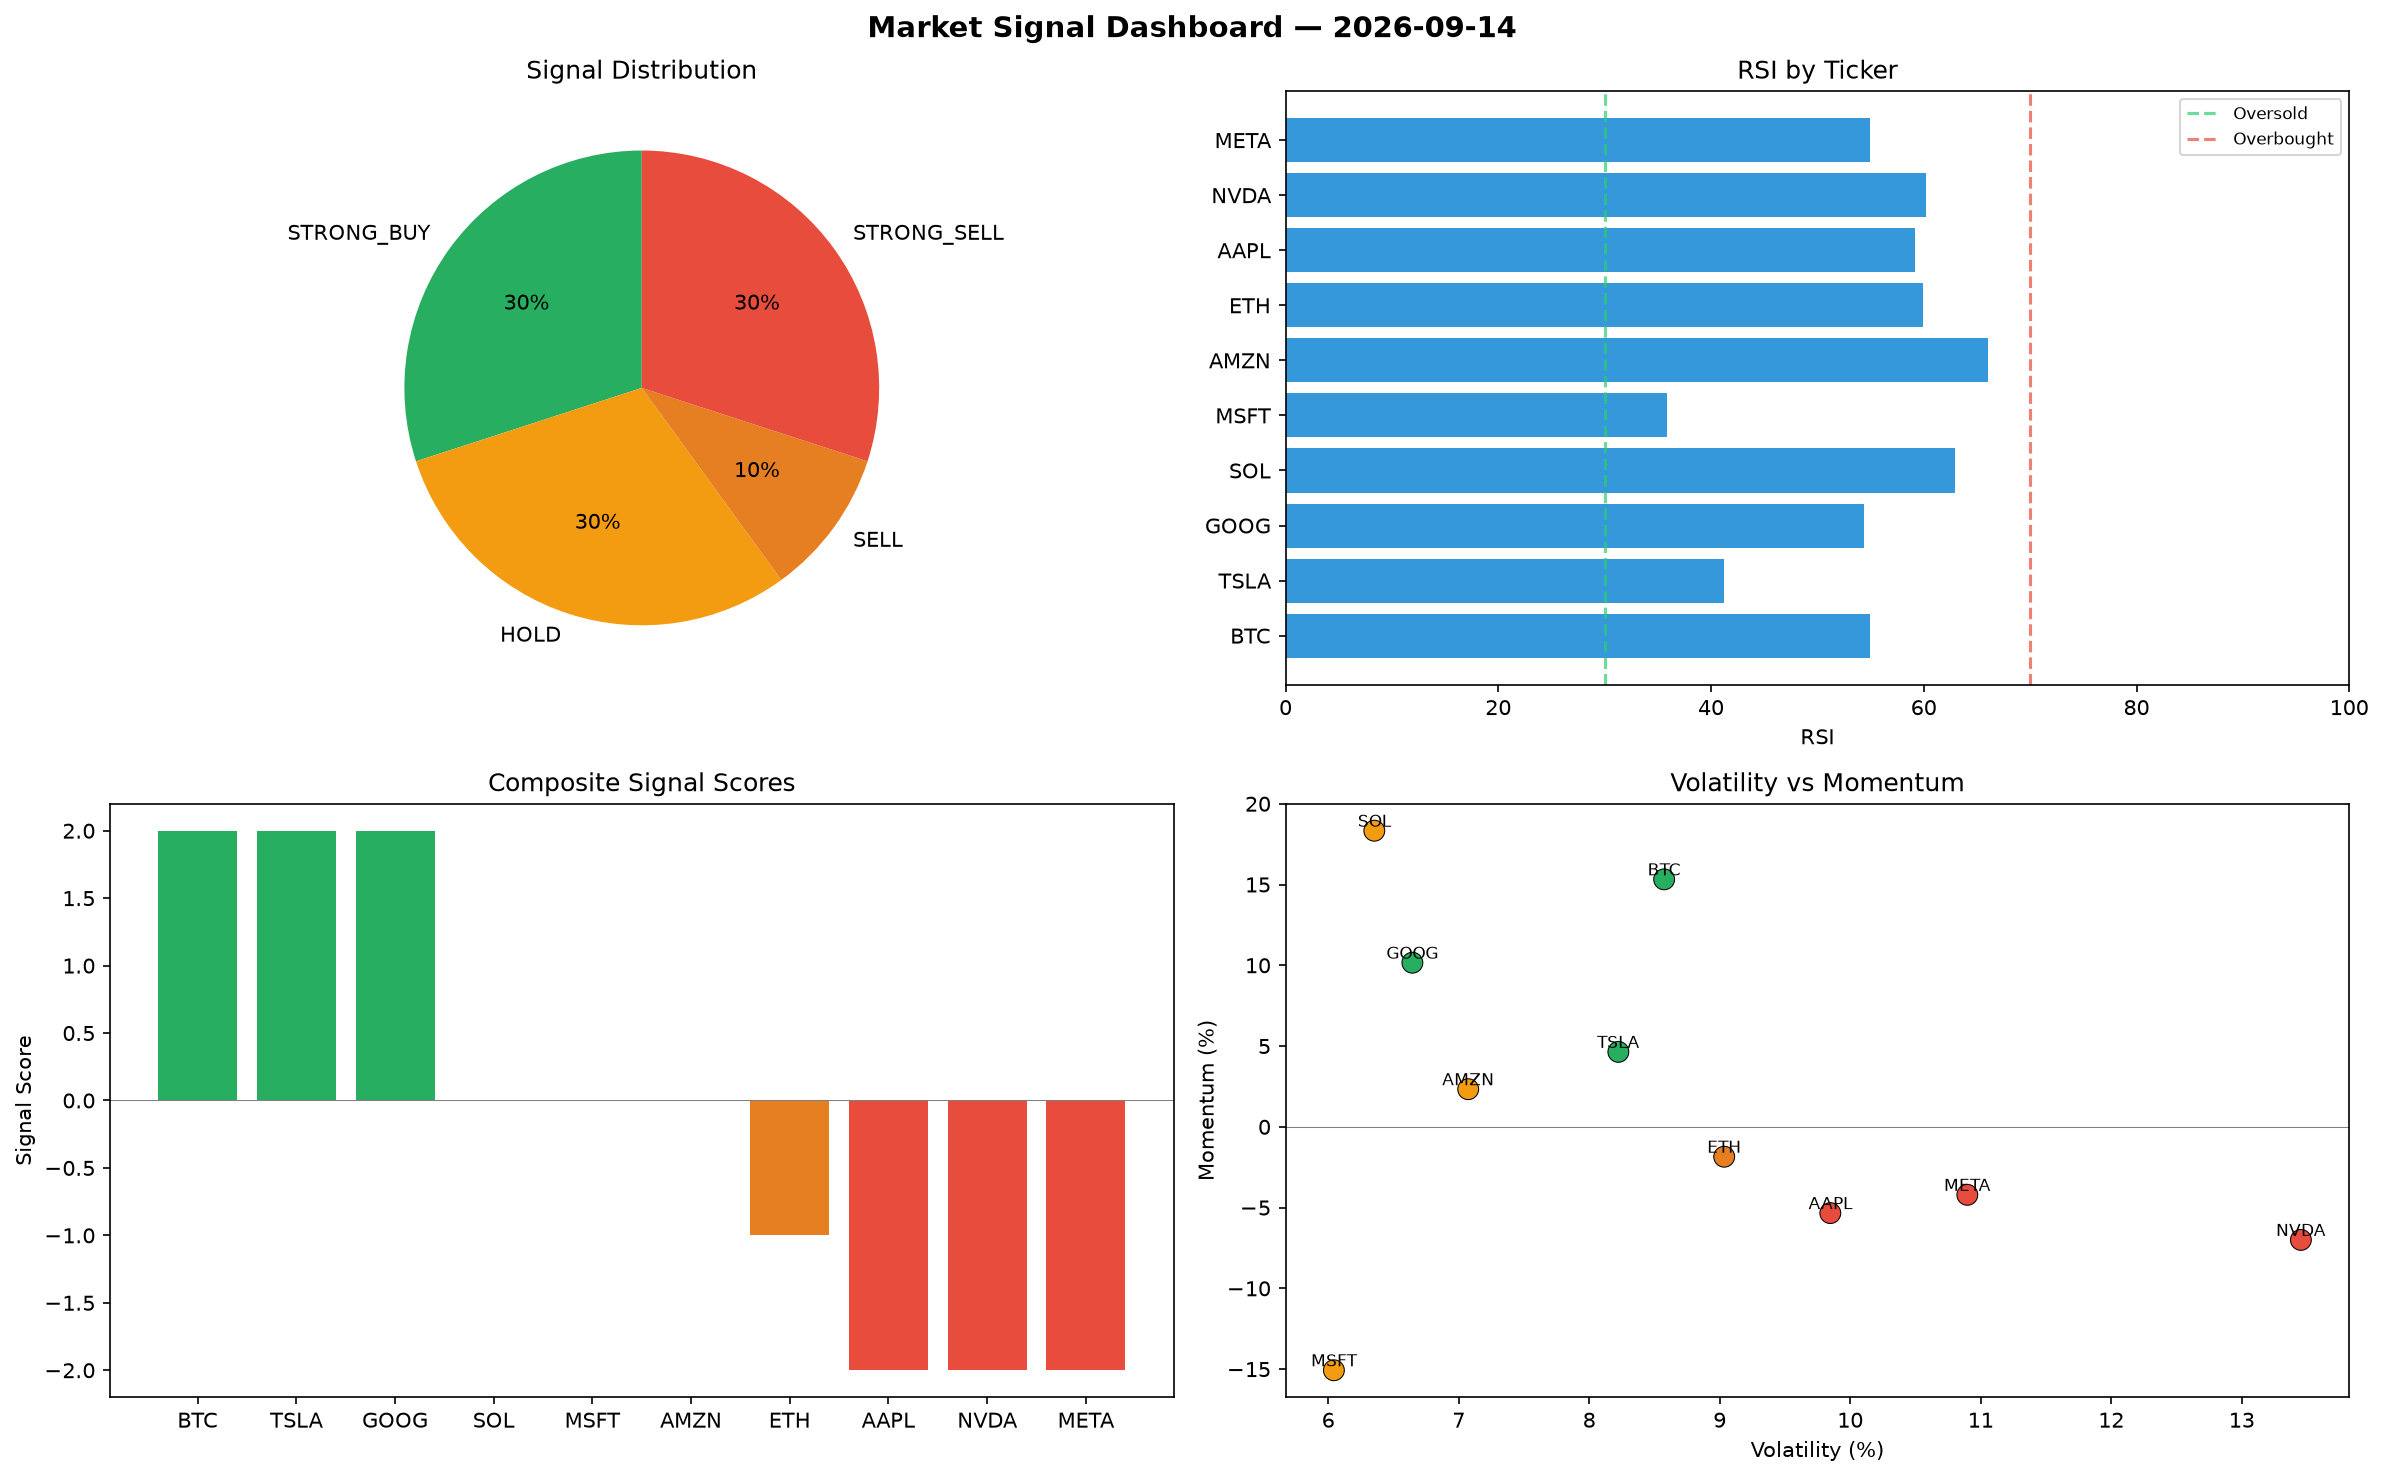
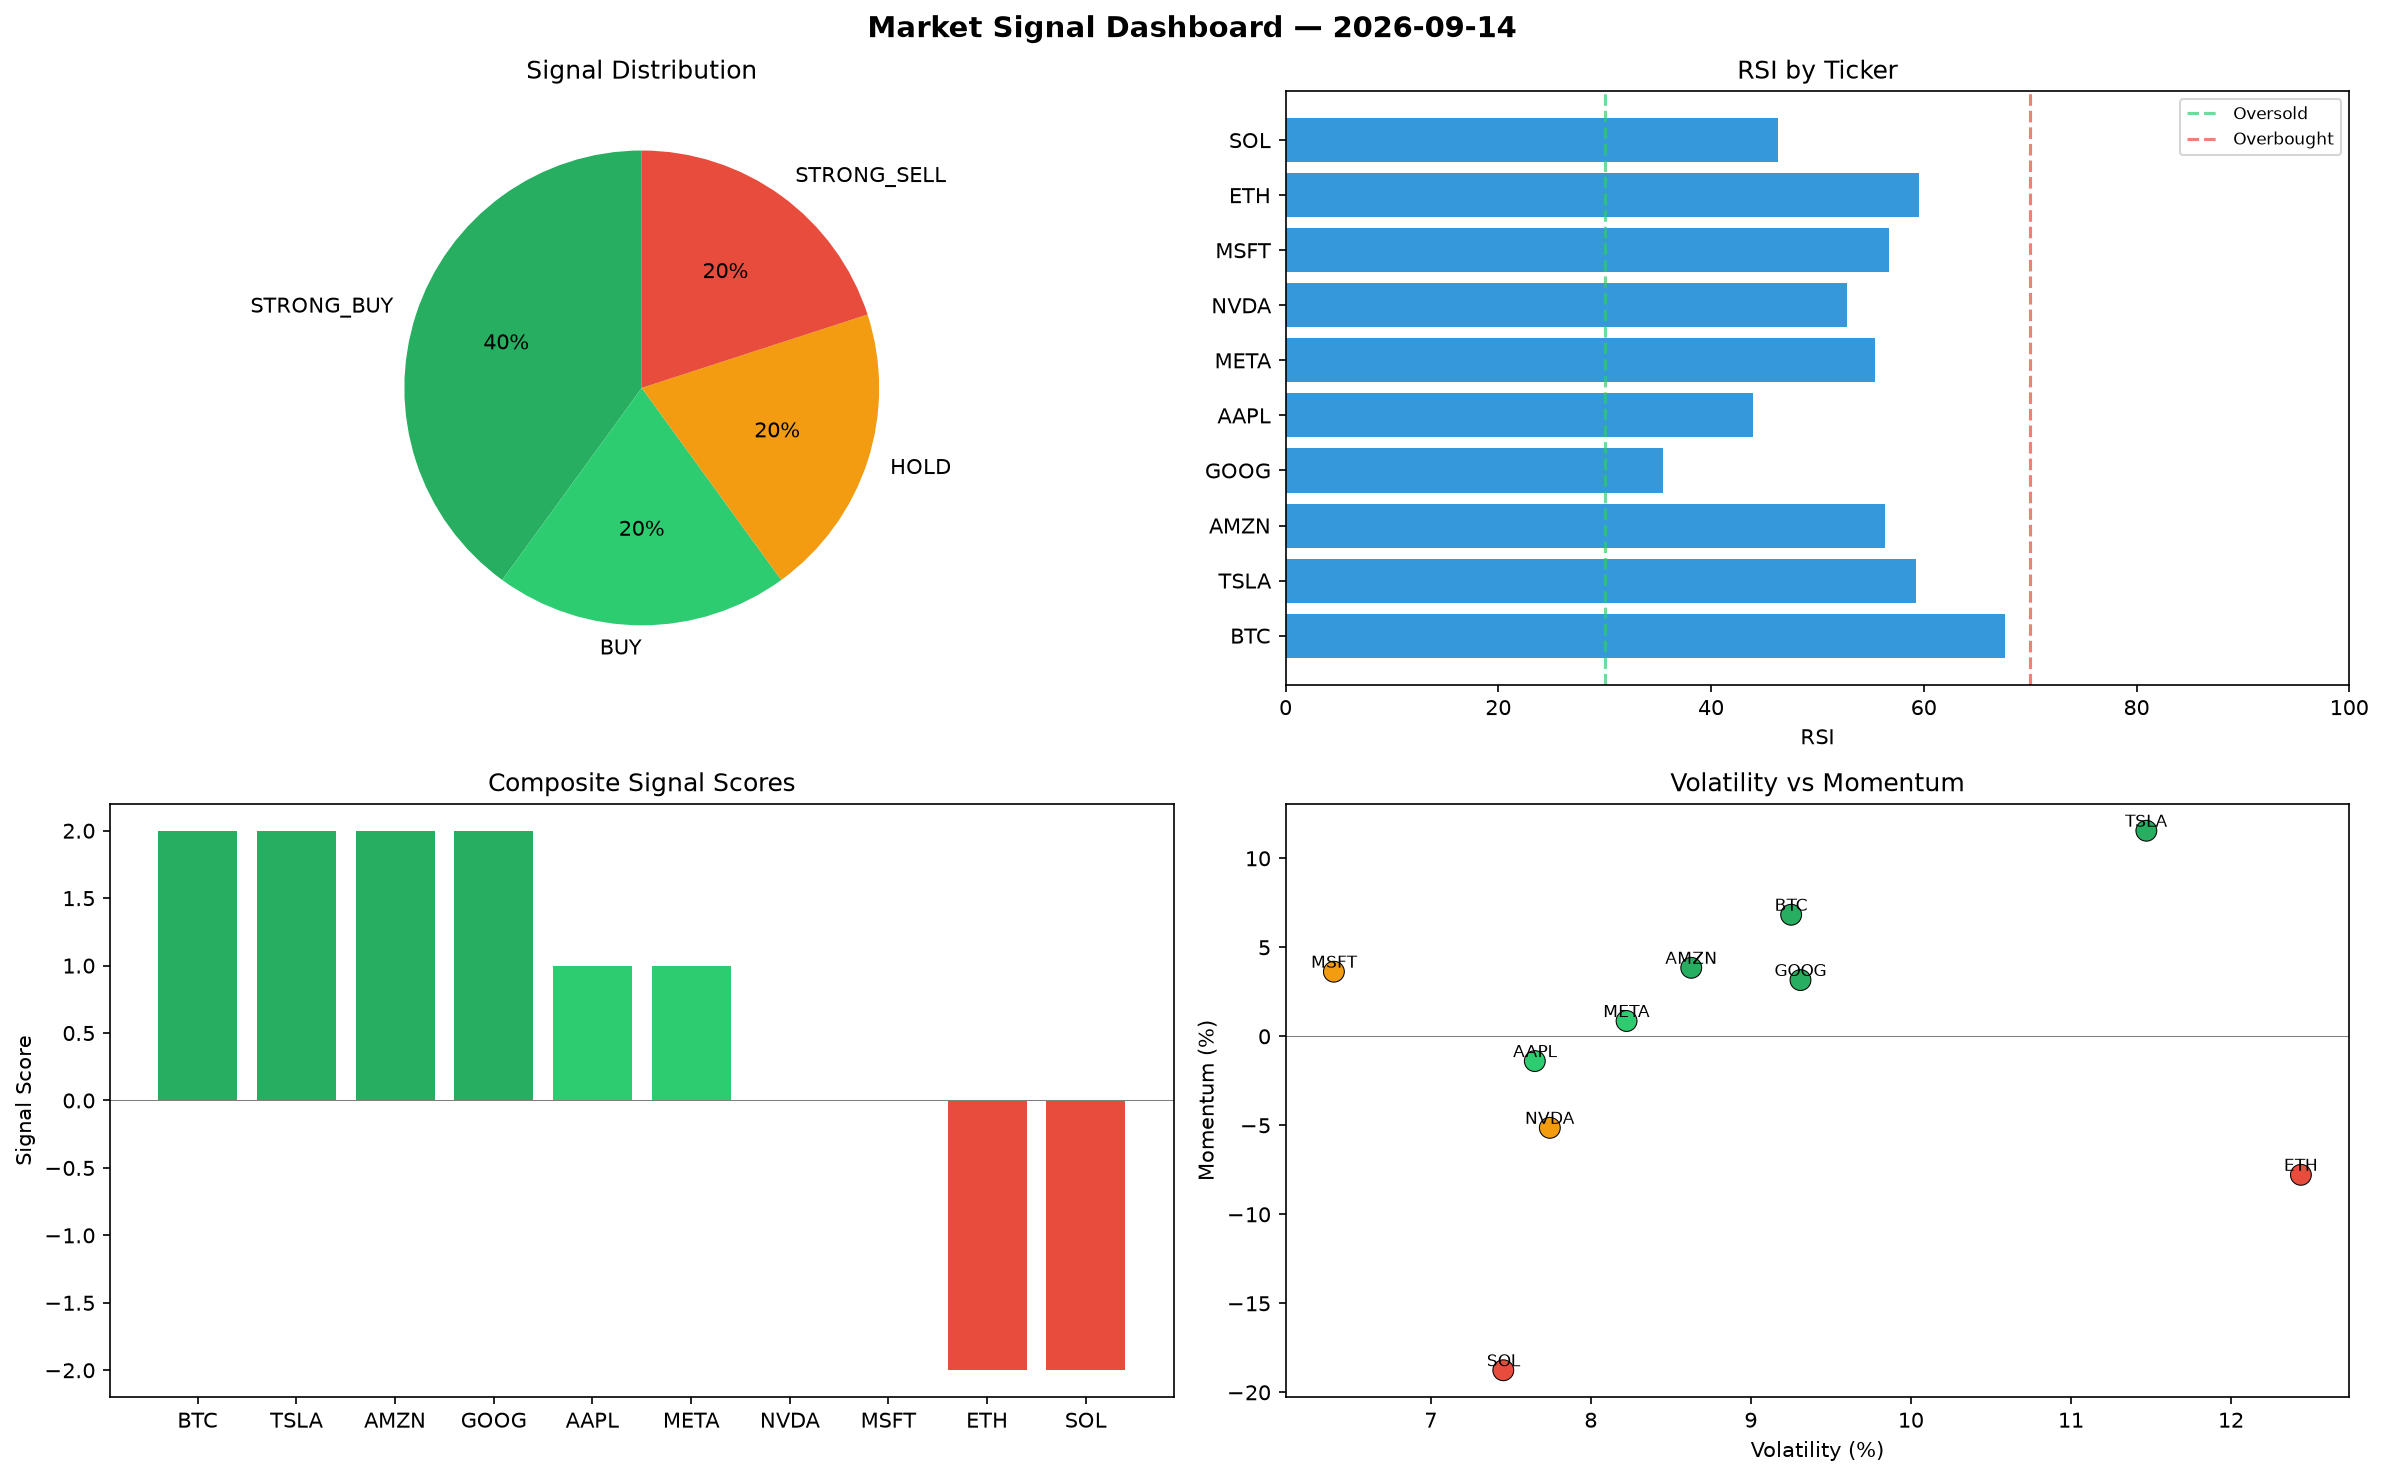
automated-bots: market signals 2026-09-14T15:08

diff --git a/logs/2026-09-14.md b/logs/2026-09-14.md
@@ -1,6 +1,6 @@
 # Market Signal Report — 2026-09-14
 
-**Run ID:** `5d59b2be1d` | **Buy:** 3 | **Sell:** 4 | **Hold:** 3
+**Run ID:** `f21ec5fb1b` | **Buy:** 6 | **Sell:** 2 | **Hold:** 2
 
 ![Dashboard](2026-09-14_dashboard.png)
 
@@ -8,28 +8,28 @@
 
 | Ticker | Price | Signal | Score | RSI | Momentum | Confidence |
 |--------|-------|--------|-------|-----|----------|------------|
-| BTC | $4235.14 | **STRONG_BUY** | 2 | 54.92 | 0.1532 | 0.5 |
-| TSLA | $4507.97 | **STRONG_BUY** | 2 | 41.2 | 0.0464 | 0.5 |
-| GOOG | $3342.93 | **STRONG_BUY** | 2 | 54.41 | 0.1016 | 0.5 |
-| SOL | $1908.82 | **HOLD** | 0 | 62.9 | 0.1833 | 0.0 |
-| MSFT | $4055.41 | **HOLD** | 0 | 35.82 | -0.1507 | 0.0 |
-| AMZN | $4568.13 | **HOLD** | 0 | 66.07 | 0.0233 | 0.0 |
-| ETH | $76.02 | **SELL** | -1 | 59.89 | -0.0185 | 0.25 |
-| AAPL | $3081.47 | **STRONG_SELL** | -2 | 59.17 | -0.0534 | 0.5 |
-| NVDA | $2498.1 | **STRONG_SELL** | -2 | 60.22 | -0.07 | 0.5 |
-| META | $1258.99 | **STRONG_SELL** | -2 | 54.94 | -0.0421 | 0.5 |
+| BTC | $1742.12 | **STRONG_BUY** | 2 | 67.67 | 0.0683 | 0.5 |
+| TSLA | $1788.76 | **STRONG_BUY** | 2 | 59.26 | 0.1155 | 0.5 |
+| AMZN | $921.15 | **STRONG_BUY** | 2 | 56.39 | 0.0385 | 0.5 |
+| GOOG | $291.09 | **STRONG_BUY** | 2 | 35.49 | 0.0316 | 0.5 |
+| AAPL | $4188.03 | **BUY** | 1 | 43.98 | -0.0139 | 0.25 |
+| META | $3267.42 | **BUY** | 1 | 55.45 | 0.0086 | 0.25 |
+| NVDA | $4384.24 | **HOLD** | 0 | 52.79 | -0.0514 | 0.0 |
+| MSFT | $2283.51 | **HOLD** | 0 | 56.72 | 0.0363 | 0.0 |
+| ETH | $2994.71 | **STRONG_SELL** | -2 | 59.54 | -0.0778 | 0.5 |
+| SOL | $4317.4 | **STRONG_SELL** | -2 | 46.34 | -0.1876 | 0.5 |
 
 ## Delta vs Yesterday
 
 | Ticker | Today | Yesterday | Price Change | Signal Changed |
 |--------|-------|-----------|-------------|----------------|
-| BTC | STRONG_BUY | SELL | 📈 180.84% | ⚠ YES |
-| TSLA | STRONG_BUY | STRONG_SELL | 📈 916.06% | ⚠ YES |
-| GOOG | STRONG_BUY | STRONG_BUY | 📈 50.87% | — |
-| SOL | HOLD | STRONG_SELL | 📉 -25.8% | ⚠ YES |
-| MSFT | HOLD | STRONG_SELL | 📈 441.85% | ⚠ YES |
-| AMZN | HOLD | STRONG_BUY | 📈 313.57% | ⚠ YES |
-| ETH | SELL | STRONG_SELL | 📉 -92.11% | ⚠ YES |
-| AAPL | STRONG_SELL | BUY | 📉 -26.39% | ⚠ YES |
-| NVDA | STRONG_SELL | STRONG_SELL | 📈 152.72% | — |
-| META | STRONG_SELL | SELL | 📈 14.99% | ⚠ YES |
+| BTC | STRONG_BUY | SELL | 📈 15.52% | ⚠ YES |
+| TSLA | STRONG_BUY | STRONG_SELL | 📈 303.17% | ⚠ YES |
+| AMZN | STRONG_BUY | STRONG_BUY | 📉 -16.6% | — |
+| GOOG | STRONG_BUY | STRONG_BUY | 📉 -86.86% | — |
+| AAPL | BUY | BUY | 📈 0.04% | — |
+| META | BUY | SELL | 📈 198.44% | ⚠ YES |
+| NVDA | HOLD | STRONG_SELL | 📈 343.54% | ⚠ YES |
+| MSFT | HOLD | STRONG_SELL | 📈 205.1% | ⚠ YES |
+| ETH | STRONG_SELL | STRONG_SELL | 📈 210.73% | — |
+| SOL | STRONG_SELL | STRONG_SELL | 📈 67.82% | — |
